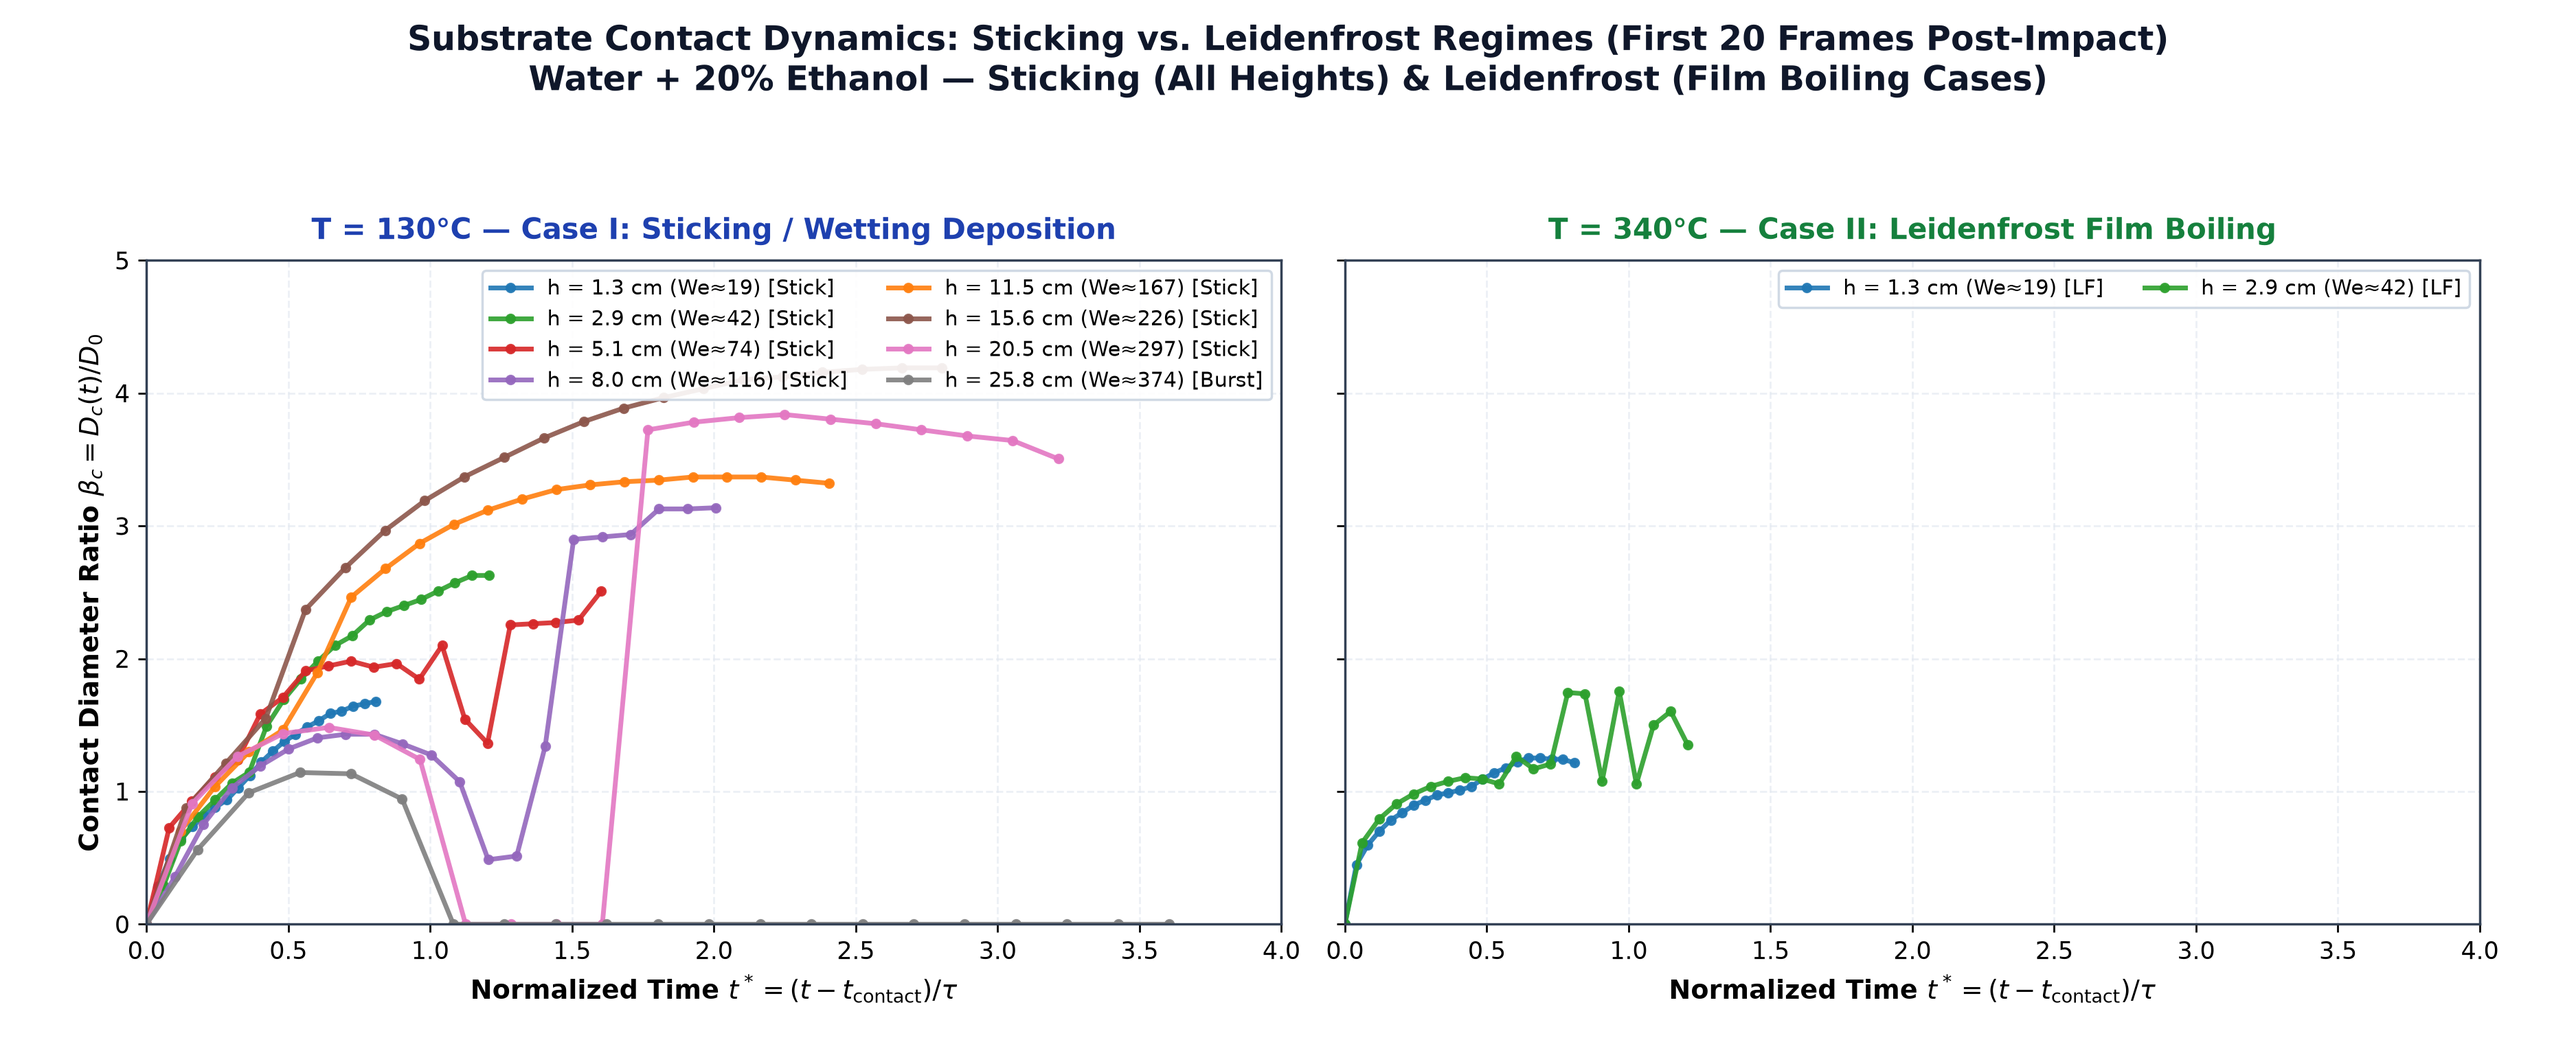
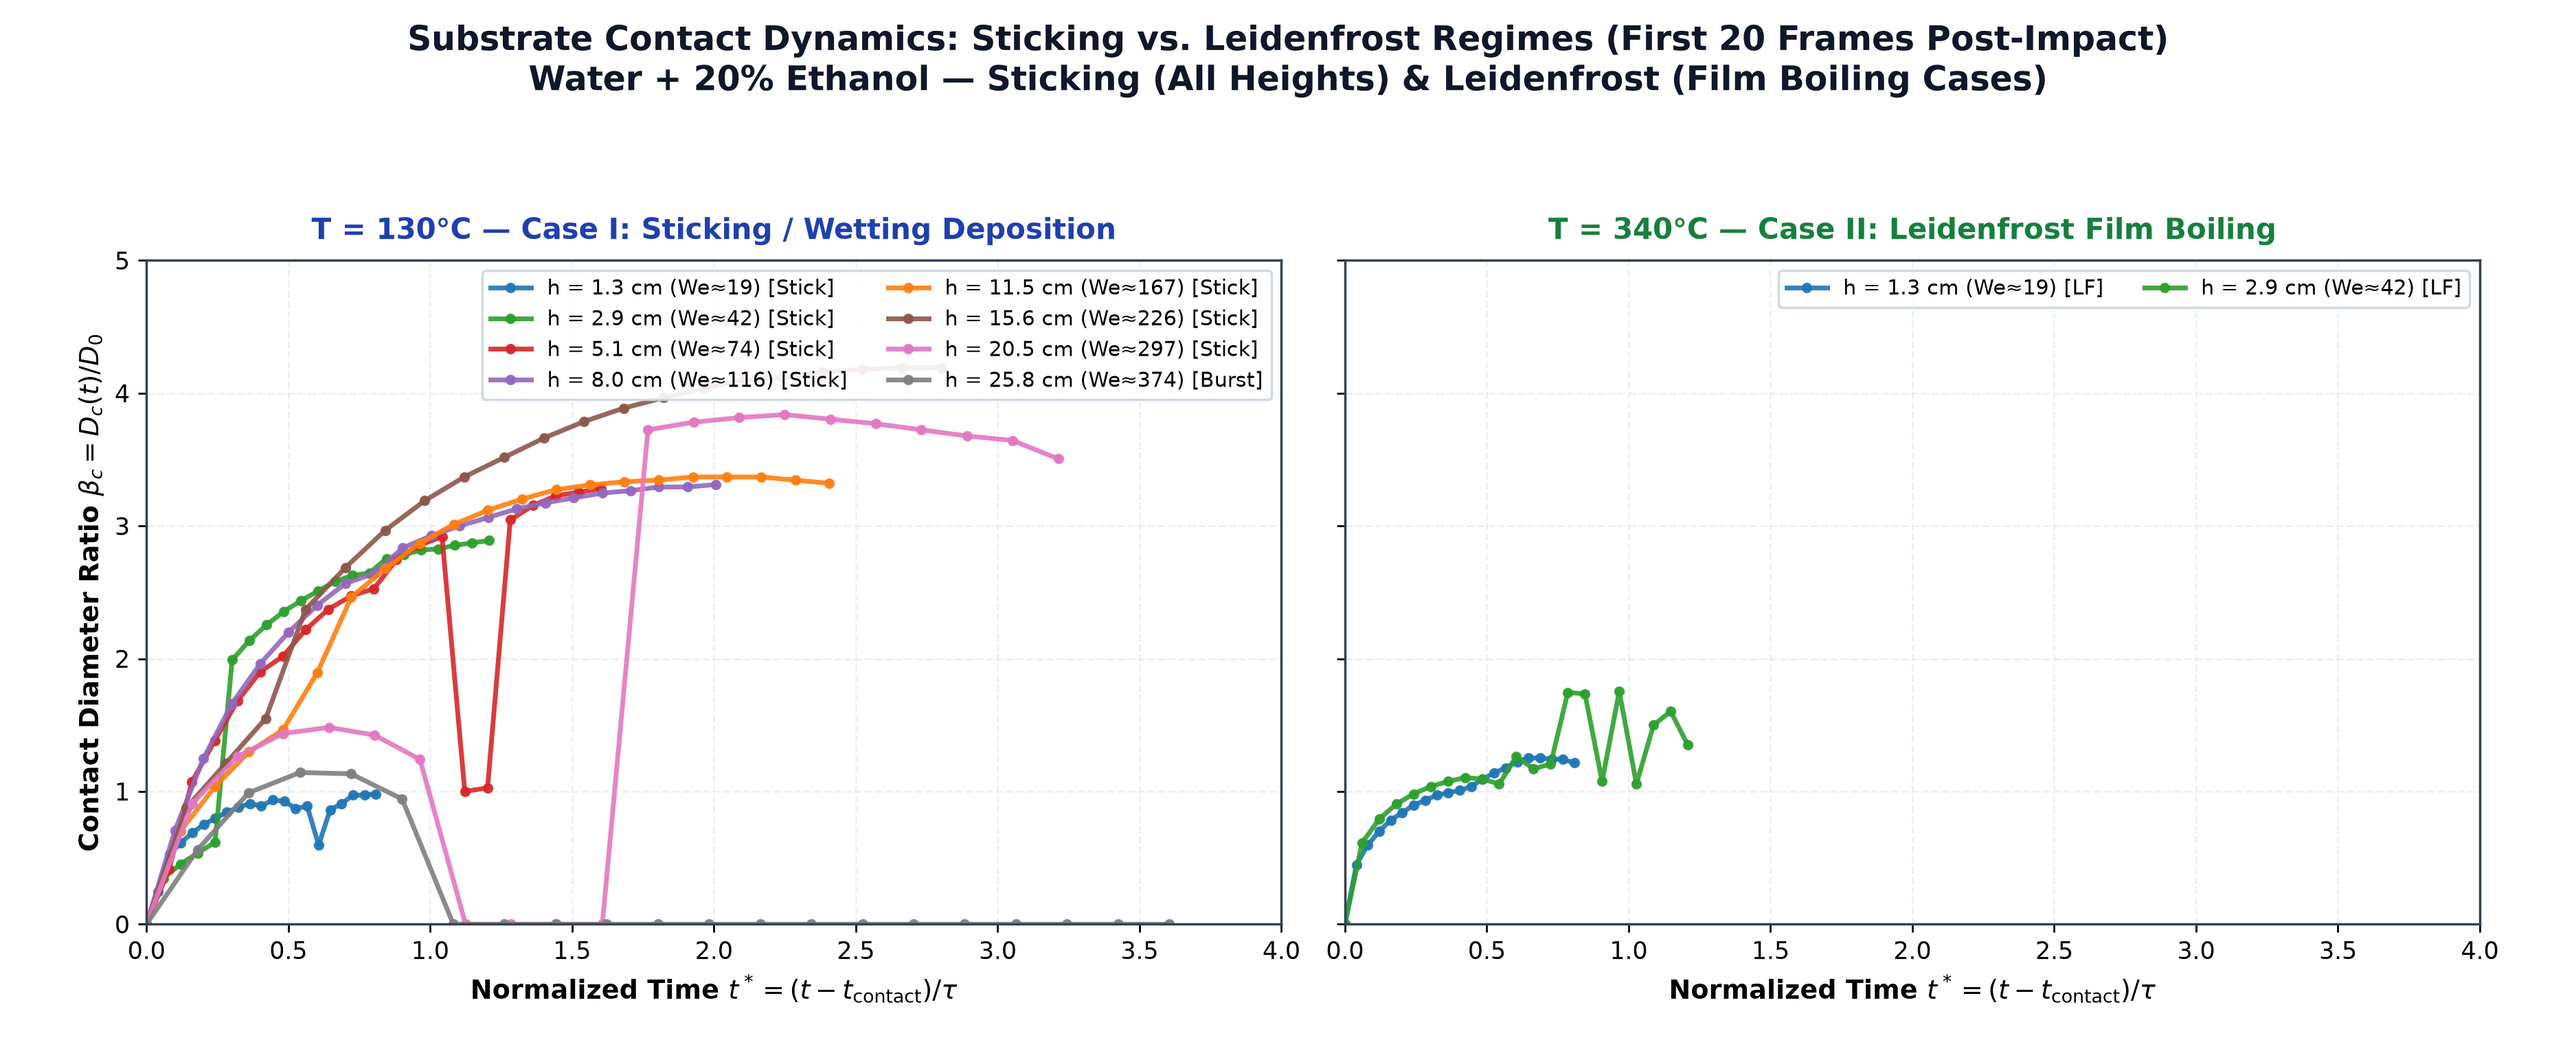
Lower baseline to true physical contact surface for 20 percent ethanol at 130C (1.3cm, 2.9cm, 5.1cm, 8cm)

Changed region(s): [[0.0624, 0.4335, 0.2808, 0.8361], [0.1872, 0.7742, 0.2184, 0.8052]]

diff --git a/rectify_20ethanol_130C_combined.py b/rectify_20ethanol_130C_combined.py
@@ -40,23 +40,23 @@ TOTAL_FRAMES_TO_PROCESS = 250
 
 CASES = {
     '08_10_2022_1.3cm': {
-        'y_contact': 570,
-        't0': 19,
-        't_contact': 20,
+        'y_contact': 586,
+        't0': 22,
+        't_contact': 23,
         'd0_eq_px': 109.0,
         'scale_px_per_mm': 34.9314,
         'y_top_cut': 135,
     },
     '08_10_2022_2.9cm': {
-        'y_contact': 566,
-        't0': 25,
-        't_contact': 26,
+        'y_contact': 574,
+        't0': 29,
+        't_contact': 30,
         'd0_eq_px': 110.0,
         'scale_px_per_mm': 35.2518,
         'y_top_cut': 135,
     },
     '08_10_2022_5.1cm': {
-        'y_contact': 566,
+        'y_contact': 573,
         't0': 11,
         't_contact': 12,
         'd0_eq_px': 110.0,
@@ -64,9 +64,9 @@ CASES = {
         'y_top_cut': 135,
     },
     '08_10_2022_8 cm': {
-        'y_contact': 568,
-        't0': 3,
-        't_contact': 4,
+        'y_contact': 577,
+        't0': 4,
+        't_contact': 5,
         'd0_eq_px': 109.0,
         'scale_px_per_mm': 34.9314,
         'y_top_cut': 135,
